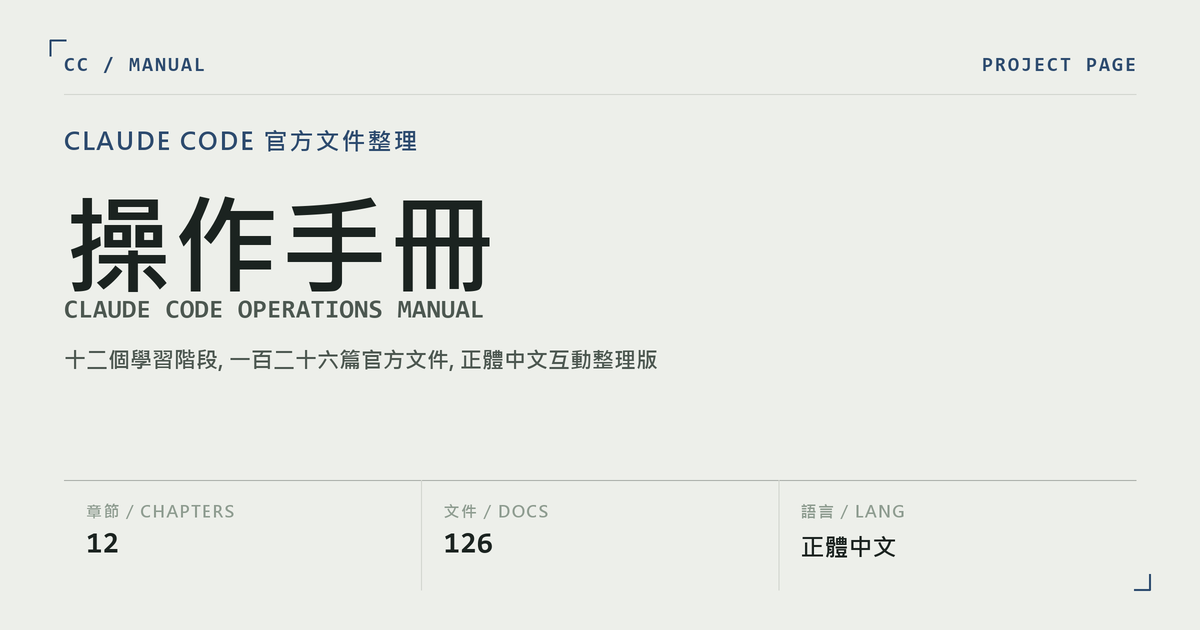
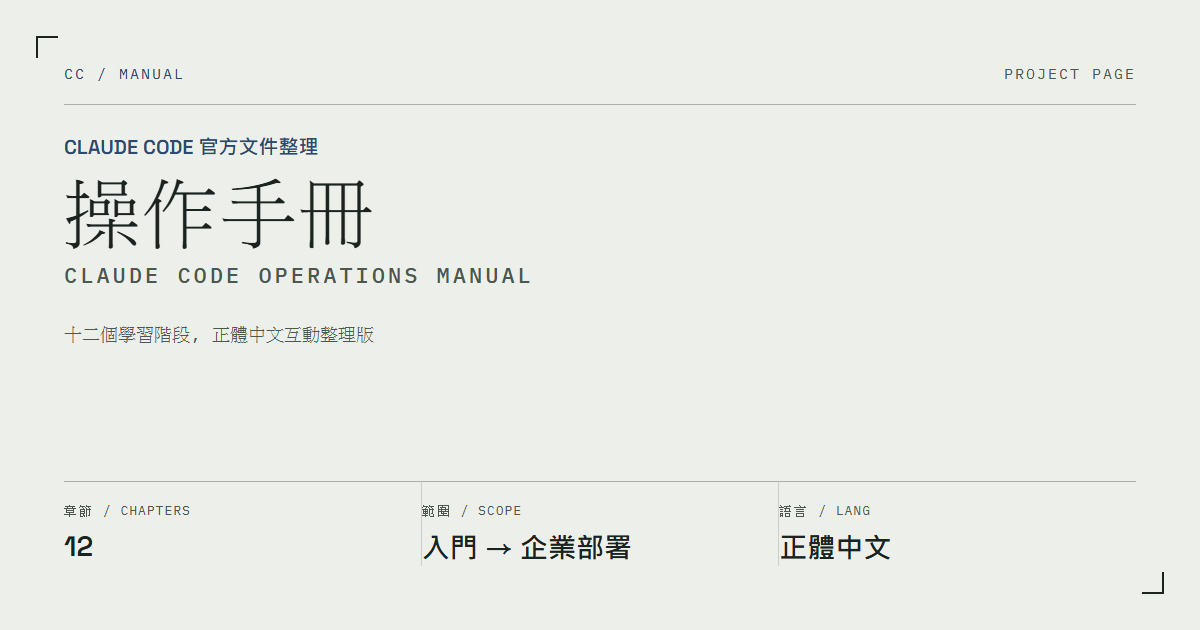
移除 index.html 與 og-image 中不準確的 126 篇文件敘述與統計方塊
篇數與實際內容不符, 且無需在首頁特別強調總篇數

diff --git a/index.html b/index.html
@@ -4,11 +4,11 @@
 <meta charset="UTF-8">
 <meta name="viewport" content="width=device-width, initial-scale=1.0">
 <title>CLAUDE CODE 操作手冊</title>
-<meta name="description" content="Claude Code 官方文件正體中文整理版, 依建議學習路徑重新編排十二個階段, 收錄一百二十六篇文件, 提供互動式學習頁面.">
+<meta name="description" content="Claude Code 官方文件正體中文整理版, 依建議學習路徑重新編排十二個階段, 提供互動式學習頁面.">
 <link rel="canonical" href="https://allenintaipei.github.io/my-ClaudeCodeDoc/">
 <meta property="og:type" content="website">
 <meta property="og:title" content="CLAUDE CODE 操作手冊">
-<meta property="og:description" content="Claude Code 官方文件正體中文整理版, 依建議學習路徑重新編排十二個階段, 收錄一百二十六篇文件, 提供互動式學習頁面.">
+<meta property="og:description" content="Claude Code 官方文件正體中文整理版, 依建議學習路徑重新編排十二個階段, 提供互動式學習頁面.">
 <meta property="og:url" content="https://allenintaipei.github.io/my-ClaudeCodeDoc/">
 <meta property="og:image" content="https://allenintaipei.github.io/my-ClaudeCodeDoc/og-image.png">
 <meta property="og:image:width" content="1200">
@@ -16,7 +16,7 @@
 <meta property="og:locale" content="zh_TW">
 <meta name="twitter:card" content="summary_large_image">
 <meta name="twitter:title" content="CLAUDE CODE 操作手冊">
-<meta name="twitter:description" content="Claude Code 官方文件正體中文整理版, 依建議學習路徑重新編排十二個階段, 收錄一百二十六篇文件, 提供互動式學習頁面.">
+<meta name="twitter:description" content="Claude Code 官方文件正體中文整理版, 依建議學習路徑重新編排十二個階段, 提供互動式學習頁面.">
 <meta name="twitter:image" content="https://allenintaipei.github.io/my-ClaudeCodeDoc/og-image.png">
 <link rel="icon" type="image/svg+xml" href="favicon.svg">
 <link rel="preconnect" href="https://fonts.googleapis.com">
@@ -184,7 +184,7 @@
 
   .titleblock{
     display:grid;
-    grid-template-columns:repeat(5, 1fr);
+    grid-template-columns:repeat(4, 1fr);
     margin-top:36px;
     border-top:1px solid var(--line-strong);
     opacity:0;
@@ -514,17 +514,13 @@
     <div class="hero__title">
       <span class="hero__eyebrow">Claude Code 官方文件整理</span>
       <h1>操作手冊<span>CLAUDE CODE OPERATIONS MANUAL</span></h1>
-      <p class="hero__sub">從安裝設定到企業級部署與治理, 依難易度重新編排的十二個階段, 收錄一百二十六篇官方文件, 每篇均已轉換為互動式學習頁面.</p>
+      <p class="hero__sub">從安裝設定到企業級部署與治理, 依難易度重新編排的十二個階段, 每篇均已轉換為互動式學習頁面.</p>
     </div>
 
     <div class="titleblock">
       <div class="titleblock__cell">
         <span class="titleblock__label">章節 / Chapters</span>
         <span class="titleblock__value">12</span>
-      </div>
-      <div class="titleblock__cell">
-        <span class="titleblock__label">文件 / Docs</span>
-        <span class="titleblock__value">126</span>
       </div>
       <div class="titleblock__cell">
         <span class="titleblock__label">範圍 / Scope</span>
@@ -950,7 +946,7 @@
 
 <footer>
   <div class="wrap">
-    <p>資料來源: 本機資料夾內十二個章節, 共一百二十六篇 Claude Code 官方文件, 依 llms.txt 建議學習路徑整理.</p>
+    <p>資料來源: 本機資料夾內十二個章節的 Claude Code 官方文件, 依 llms.txt 建議學習路徑整理.</p>
     <p>非官方翻譯整理, 版權仍屬 Anthropic 所有, 不保證與官方文件同步更新, 官方文件請參閱 <a href="https://code.claude.com/docs" target="_blank" rel="noopener">官方文件站</a>.</p>
     <p>CC-MANUAL / REV 2026.07.12 / 正體中文整理版 / 最後更新 2026-07-12</p>
   </div>
